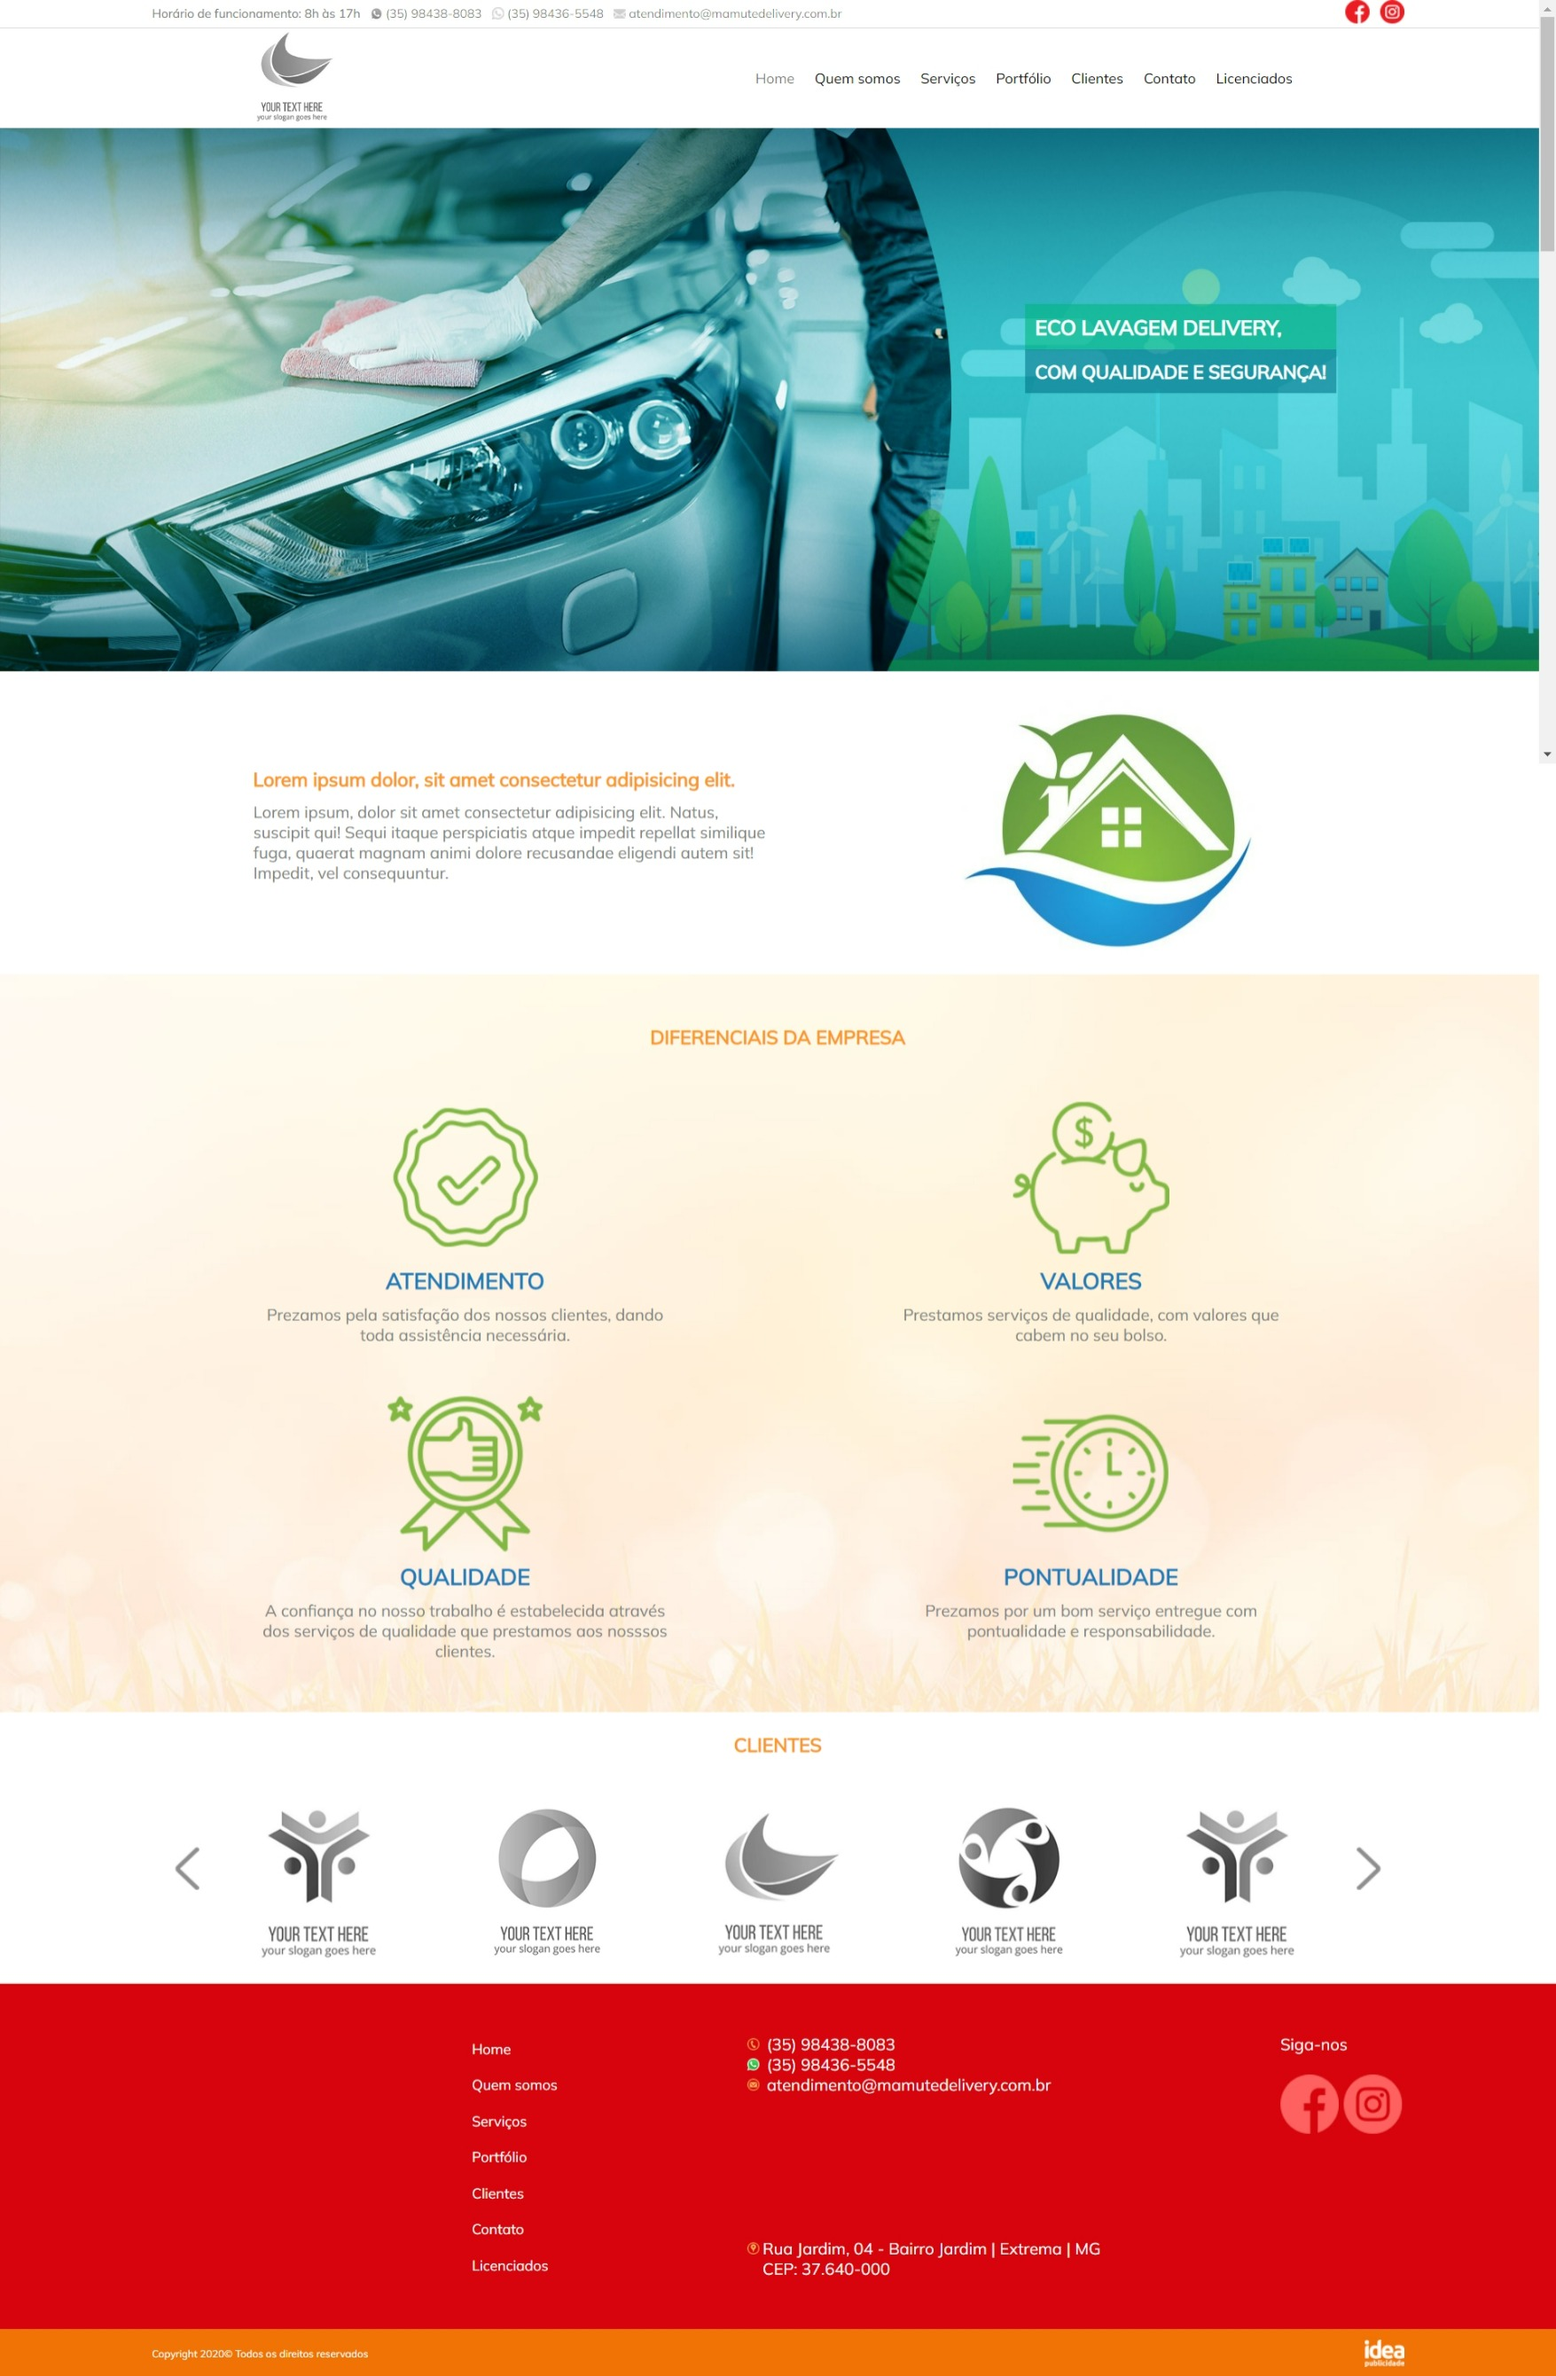
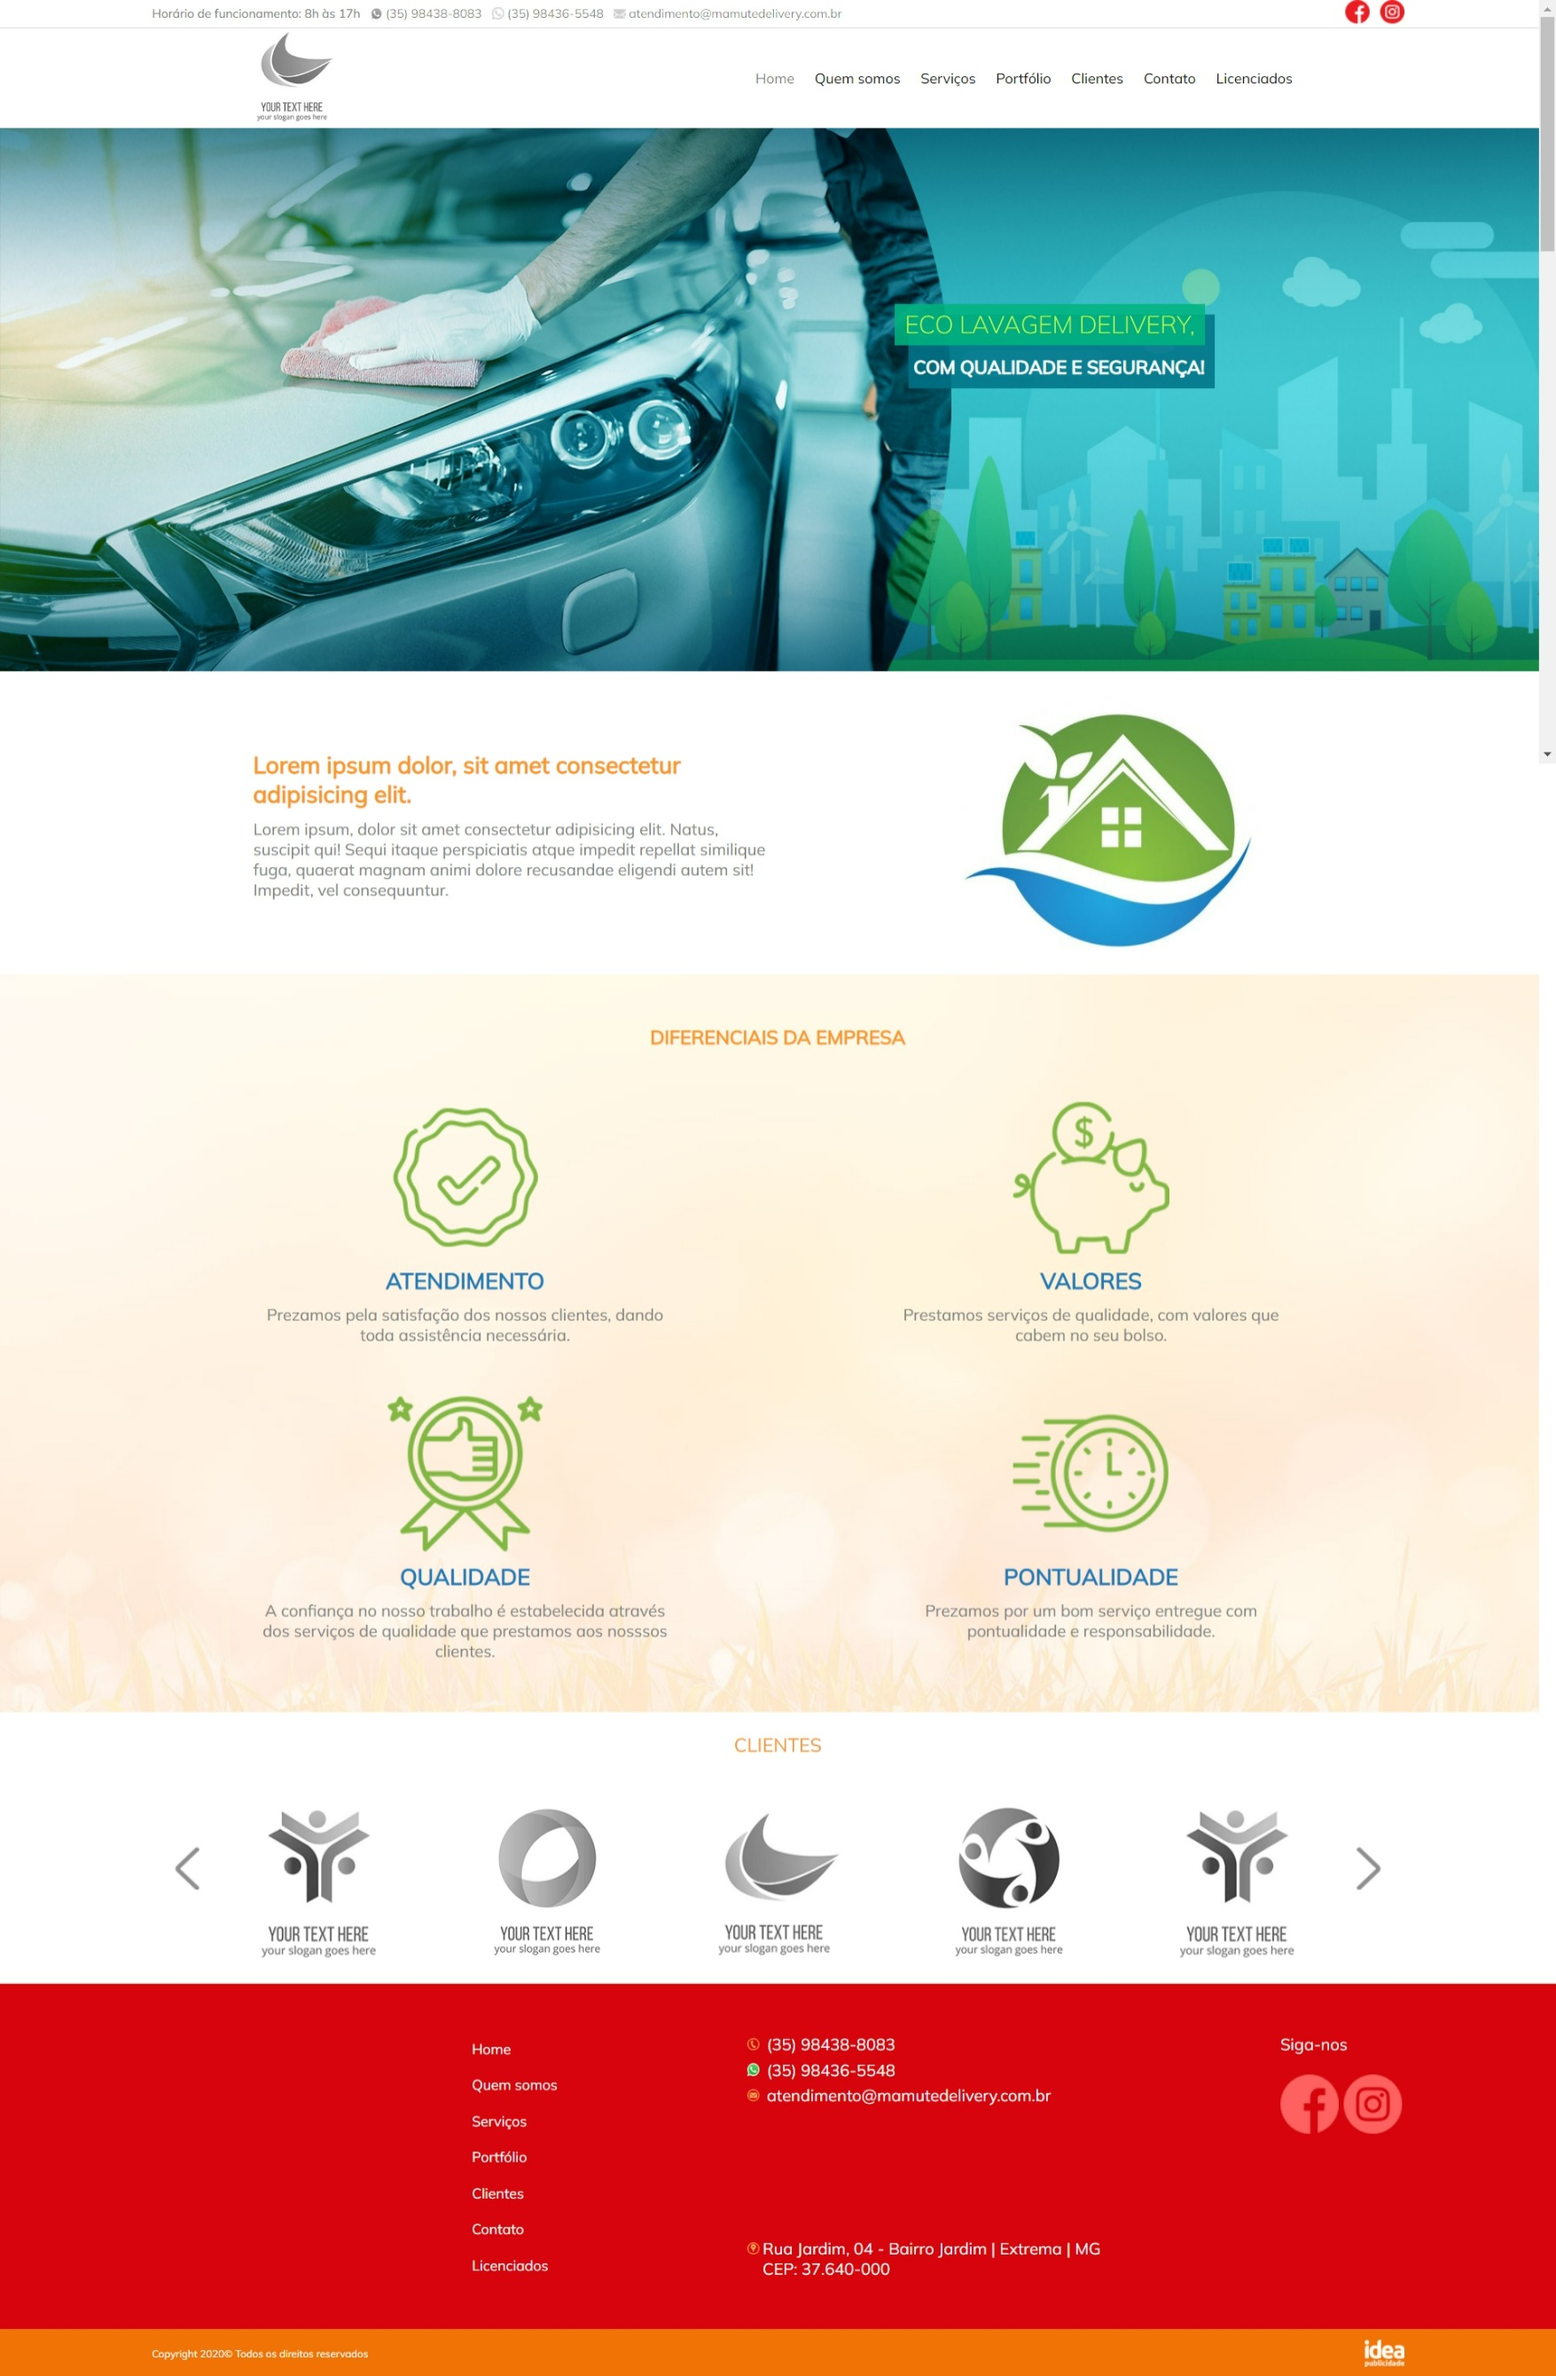
Make modificacions in design

diff --git a/assets/css/banner.css b/assets/css/banner.css
@@ -8,21 +8,33 @@
 
 .title {
   display: none;
+  position: absolute;
+  top: 50%;
+  transform: translateY(-50%);
 }
 
 .title h1 {
+  position: absolute;
   background-color: var(--green-banner-color);
-  font-size: 2rem;
-
-  padding: 10px;
-
+  font-size: 2.4rem;
+  color: var(--eco-banner-color);
+  font-weight: 200;
+  padding: 5px 10px;
+  z-index: 2;
+  width: max-content;
+  right: 130px;
 }
 
 .title h2 {
+  position: absolute;
   background-color: var(--blue-banner-color);
   color: var(--white-color);
   font-size: 1.8rem;
-  padding: 10px;
+  padding: 40px 10px 10px 5px;
+  z-index: 1;
+  width: max-content;
+  right: 120px;
+  top: 10px;
 }
 
 @media screen and (min-width: 768px) {

diff --git a/assets/css/base.css b/assets/css/base.css
@@ -15,9 +15,9 @@
 
   --menu-icon-color: #333;
 
-  --blue-banner-color: #00738795;
-  --green-banner-color: #00b57f95;
-
+  --blue-banner-color: #007387dd;
+  --green-banner-color: #00b57fdd;
+  --eco-banner-color: #cffa38;
 
   --black-with-opacity-90: #00000090;
   --black-with-opacity-20: #00000020;
@@ -34,6 +34,8 @@
   margin: 0;
   padding: 0;
   box-sizing: border-box;
+  font-family: 'Mulish', sans-serif;
+  font-weight: 400;
 }
 
 li {
@@ -55,12 +57,12 @@ a:hover {
 
 body {
   overflow-x: hidden;
-  font-family: 'Mulish', sans-serif;
 }
 
 h2, h3 {
   color: var(--subtitle-color);
   margin-bottom: 10px;
+  font-weight: bold;
 }
 
 p {

diff --git a/assets/css/differentials.css b/assets/css/differentials.css
@@ -12,11 +12,6 @@
   flex-direction: column;
 }
 
-.differentials .container h2 {
-  text-transform: uppercase;
-  margin-bottom: 10px;
-}
-
 .differentials-list {
   display: grid;
   grid-template-columns: 1fr;
@@ -35,6 +30,7 @@
 
 .differentials-list h3 {
   font-size: 2.2rem;
+  font-weight: bold;
   text-transform: uppercase;
   color: var(--blue-text-color);
   margin: 10px 0;

diff --git a/index.html b/index.html
@@ -97,7 +97,7 @@
     <!-- Banner -->
     <section class="banner">
         
-        <img src="/assets/img/banner1.jpg" alt="Banner">
+        <img src="assets/img/banner1.jpg" alt="Banner">
         <i class="title">
           <h1>Eco Lavagem Delivery,</h1>
           <h2>Com qualidade e segurança!</h2>

diff --git a/assets/css/footer.css b/assets/css/footer.css
@@ -24,11 +24,14 @@ footer address {
   display: flex;
   flex-direction: column;
   justify-content: space-between;
+  gap: 5px;
 }
 
-footer address .contact-list {
+.footer-contact-list {
   display: flex;
   flex-direction: column;
+  align-items: left;
+  gap: 5px;
 }
 
 .local {

diff --git a/assets/css/header.css b/assets/css/header.css
@@ -107,7 +107,7 @@ nav.show {
   background-color: var(--white-color);
   z-index: 1;
 
-  box-shadow: 0 1px 2px 2px var(--black-with-opacity-20);
+  box-shadow: 0 1px 1px 1px var(--black-with-opacity-20);
 }
 
 .selected {

diff --git a/assets/css/about.css b/assets/css/about.css
@@ -12,6 +12,10 @@
   margin: 0 auto;
 }
 
+.about .content h3 {
+  font-size: 2.3rem;
+}
+
 @media screen and (min-width: 768px) {
   .about .container {
     flex-direction: row;

diff --git a/assets/css/clientes.css b/assets/css/clientes.css
@@ -6,6 +6,10 @@
   text-align: center;
 }
 
+.clientes h3 {
+  font-weight: 400;
+}
+
 .slider {
   position: relative;
 }
